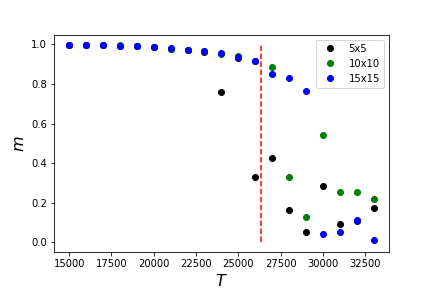
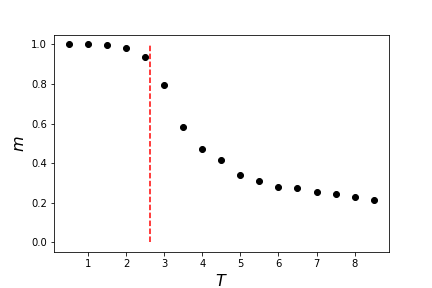
Add files via upload

diff --git a/plot_magnetization.py b/plot_magnetization.py
@@ -5,18 +5,15 @@
 import numpy as np
 import matplotlib.pyplot as plt
 from localupdate import LocalUpdater
-from mpmath import csch
+from wolffupdate import WolffUpdater
+
 
 #global variables (temporary)
-J_factor = 1. #nearest-neighbor term factor
-K_factor = 0.2 #plaquette term factor
-size = 3 #size of state in 1D
-chain_length = 1000 #number of states to generate
+J_factor = 1.0e-4 #nearest-neighbor term factor
+K_factor = 0.2e-4 #plaquette term factor
+size = 5 #size of state in 1D
+chain_length = 2000 #number of states to generate
 k_b = 8.617e-5 #Boltzmann constant in eV/K
-
-def mag_function(T):
-    c = csch(2*J_factor / (k_b*T))
-    return (1-c**2)**(1./8.)
 
 #original hamiltonian
 def hamiltonian(state, i_ind=None, j_ind=None):            
@@ -58,6 +55,7 @@ def calc_mag(T):
     beta = 1/(k_b * T) #thermodynamic beta
 
     local = LocalUpdater(hamiltonian, beta)
+    #local = WolffUpdater(J_factor, beta)
 
     initial_state = np.random.randint(0, 2, (size,size)) #initialize state from 0 to 1
     initial_state[initial_state==0] = -1 #replace 0s with -1s
@@ -75,55 +73,49 @@ def calc_mag(T):
         state_chain.append(state)
     
     #calculate magnetization
-    state_chain=state_chain[700:]
+    state_chain=state_chain[1500:]
+
 
     mags=[]
     for s in state_chain:
-        mags.append(abs(np.sum(s)) / (size**2))
+        mags.append(abs(np.sum(s)) / float(size**2))
+    
+    print(size, T)
     
     return np.mean(mags)
     
     
-    
-Ts = np.arange(5000, 55000, 5000)
+Ts = np.arange(15000, 34000, 1000)
 
-
-size = 3 #size of state in 1D
-mags = []
-for T in Ts:
-    mags.append(calc_mag(T))
-p1,=plt.plot(Ts, mags, 'ko')
+Ts = np.arange(0.5,9.,0.5)
 
 size = 5 #size of state in 1D
 mags = []
 for T in Ts:
     mags.append(calc_mag(T))
+p1,=plt.plot(Ts, mags, 'ko')
+'''
+size = 10 #size of state in 1D
+mags = []
+for T in Ts:
+    mags.append(calc_mag(T))
 p2,=plt.plot(Ts, mags, 'go')
 
-size = 8 #size of state in 1D
+size = 15 #size of state in 1D
 mags = []
 for T in Ts:
     mags.append(calc_mag(T))
 p3,=plt.plot(Ts, mags, 'bo')
 
-plt.legend([p1,p2,p3],['3x3','5x5','8x8'])
+plt.legend([p1,p2,p3],['5x5','10x10','15x15'])
+'''
 
 
 T_c = (2/np.log(1+np.sqrt(2))) * (J_factor/k_b)
 print(T_c)
 
-#plot magnetization function
-step = (Ts[-1] - Ts[0])/100
-plot_t = np.arange(Ts[0], Ts[-1]+step, step)
-mag_plot=[]
-for t in plot_t:
-    if t<T_c:
-        mag_plot.append(mag_function(t))
-    else:
-        mag_plot.append(0)
-plt.plot(plot_t, mag_plot, 'm')
-
 plt.plot([T_c, T_c], [0,1], 'r--')
+
 
 plt.xlabel(r'$T$', fontsize=16)
 plt.ylabel(r'$m$', fontsize=16)

diff --git a/plot_magnetization2.py b/plot_magnetization2.py
@@ -75,23 +75,21 @@ def calc_mag(T):
         #add state to chain
         state_chain.append(state)
     
-    mags=[]
+    mags=[] #list of magnetizations
     for i in range(len(state_chain)):
-        mags.append(np.sum(state_chain[i]))
+        mags.append(abs(np.sum(state_chain[i])) / float(size**2))
+    mag = abs(np.mean(mags)) #magnetization
     
-    mag_product=[]
-    mag_autocorr=[]
+    mag_product=[] #product of current and next magnetization
+    mag_autocorr=[] #autocorrelation function
     for i in range(len(state_chain)-1):
         mag_product.append(mags[i]*mags[i+1])
         
-        mag_product_exp = abs(np.mean(mag_product))
-        mag_exp = abs(np.mean(mags[:i]))
+        mag_product_exp = np.mean(mag_product)
+        mag_exp = np.mean(mags[:i])
         mag_autocorr.append(mag_product_exp - mag_exp**2)
-        
-    mag = abs(np.mean(mags)) #magnetization
-    moment =  mag / (size**2) #magnetic moment
  
-    return moment, mag_autocorr
+    return mag, mag_autocorr
     
     '''
     #calculate magnetization
